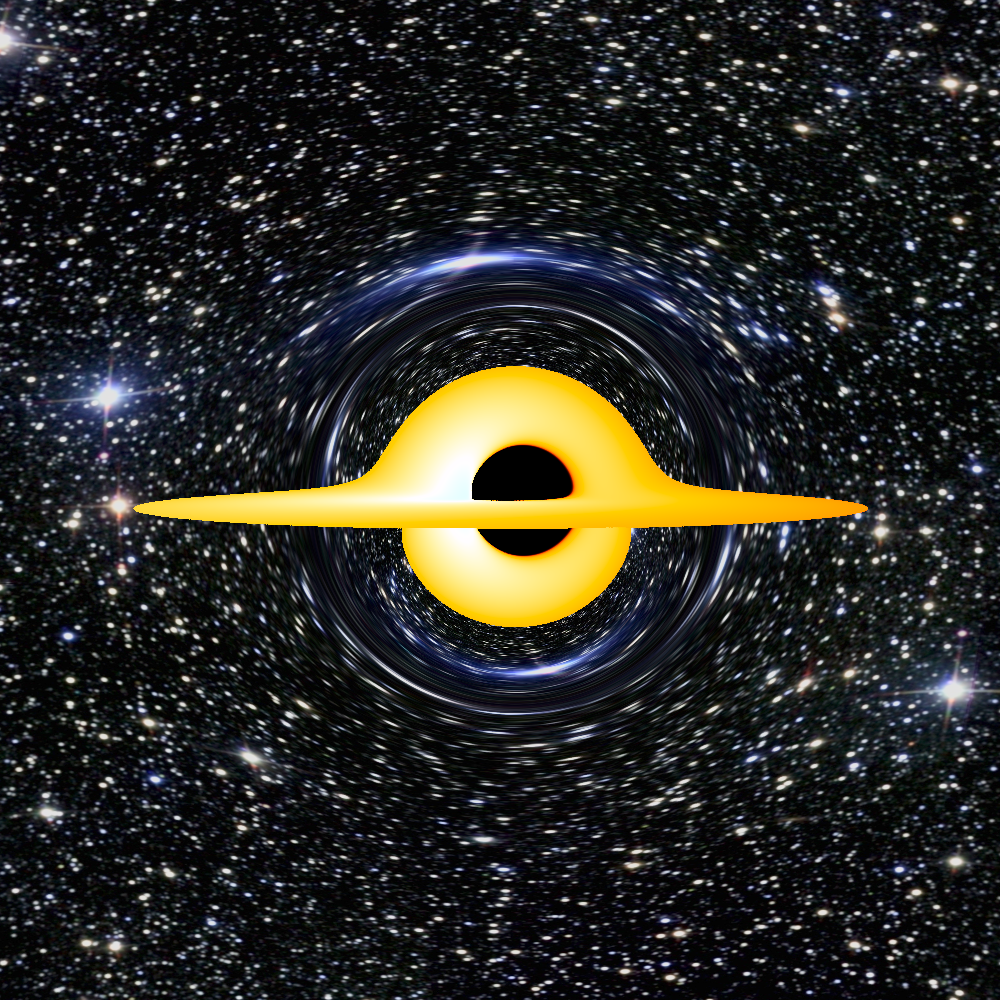
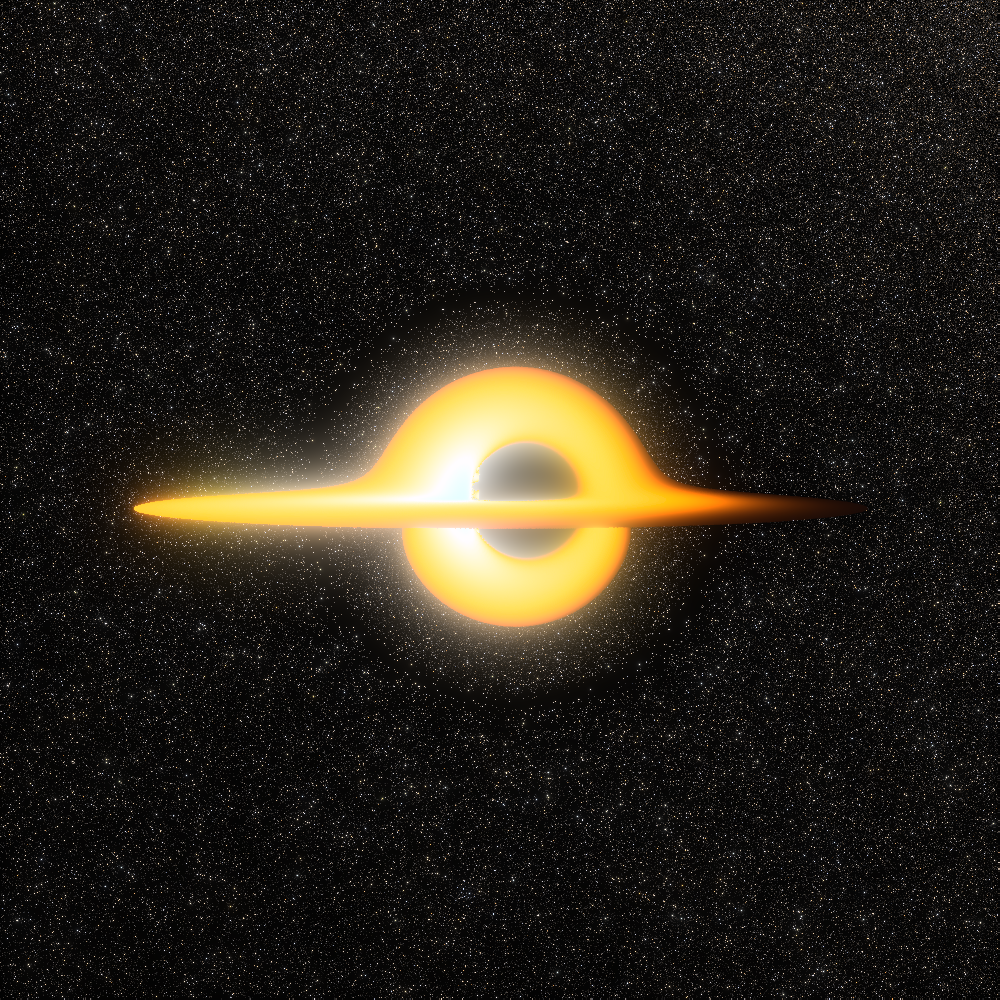
feat(gallery): re-render Kerr disc gallery over the real Gaia star field
Re-render the blackbody, volumetric, and temperature-series frames in
images/kerr.md over the real Gaia DR3 point-star catalogue (mag <= 12,
lensed and redshifted with the rays) instead of the earlier image-texture
backgrounds (M25, NGC 6355), and grade each linear HDR through
scripts/grade.py (white-point + multi-scale bloom + ACES/Reinhard).

- Blackbody discs (gold far/near, red far/near) and the volumetric-stars
  frame now show discrete catalogue stars behind the disc.
- Adds a second grade of the extremal red close-up
  (kerr_blackbody_disk_a_0_5__2_lifted.png): a gentler Reinhard toe that
  keeps the cool outer disc visible alongside the high-contrast original.
- Temperature series (8000/12000/20000 K) re-rendered on the same star field.
- Documents the exact per-image scene + grade parameters in
  images/starfield-gallery-recipes.md and updates the kerr.md captions.

Claude-Session: https://claude.ai/code/session_01KovN3ofWRhnFdLQctCndkr

diff --git a/images/kerr.md b/images/kerr.md
@@ -2,15 +2,16 @@
 
 [← Back to the gallery index](images.md)
 
-Recipes: `images/create-gallery-images.sh` (checkerboard, blackbody, and
-volumetric renders, grid animation), `images/create-vantage-images.sh`
-(close vantages), `images/create-main-image.sh` with its
-`TEMPERATURE`/`EXPOSURE` overrides (temperature series), and
-`scripts/rendering/create_kerr_images.sh` (spin-sweep animations).
-Not scripted: the photon-ring pair (6x zoom section renders of the
-main-image scene, with the disc removed for the control) and the
-trajectory visualization (ray-export plus `scripts/plotting`; see
-`scripts/Readme.md`).
+Recipes: `images/create-gallery-images.sh` (checkerboard renders, grid
+animation), `images/create-vantage-images.sh` (close vantages), and
+`scripts/rendering/create_kerr_images.sh` (spin-sweep animations). The
+blackbody, volumetric, and temperature-series frames here were re-rendered
+over the real Gaia DR3 star catalogue and graded with `scripts/grade.py`;
+their exact per-image parameters are in
+`images/starfield-gallery-recipes.md`. Not scripted: the photon-ring pair
+(6x zoom section renders of the main-image scene, with the disc removed for
+the control) and the trajectory visualization (ray-export plus
+`scripts/plotting`; see `scripts/Readme.md`).
 
 ### Checkerboard Accretion Disk
 <div align="center">
@@ -32,7 +33,7 @@ and spin: the red pair sits at a = 0.4995, essentially extremal.
 
 <div align="center">
   <img src="kerr_blackbody_disk_1.png" alt="Kerr black hole with a hot blackbody accretion disk, distant view">
-  <p>Hot (8000 K) blackbody disc at a = 0.499, distant view (background image: <a href="https://commons.wikimedia.org/wiki/File:Messier_object_025.jpg">M25</a>)</p>
+  <p>Hot (8000 K) blackbody disc at a = 0.499, distant view, against the real Gaia DR3 star field (point sources to magnitude 12, redshifted and lensed with the rays)</p>
 </div>
 
 <div align="center">
@@ -47,7 +48,12 @@ and spin: the red pair sits at a = 0.4995, essentially extremal.
 
 <div align="center">
   <img src="kerr_blackbody_disk_a_0_5__2.png" alt="Essentially extremal Kerr black hole with a cool red blackbody disk, close-up on the shadow">
-  <p>The extremal-limit disc up close</p>
+  <p>The extremal-limit disc up close, high-contrast grade: the bright inner annulus dominates and the cool outer disc falls to near-black.</p>
+</div>
+
+<div align="center">
+  <img src="kerr_blackbody_disk_a_0_5__2_lifted.png" alt="The same close-up, lifted grade showing the full cool disc">
+  <p>The same frame, lifted grade (Reinhard toe): the fainter cool body of the disc stays visible end to end, at the cost of some inner-annulus contrast.</p>
 </div>
 
 ### Volumetric Rendering
@@ -58,29 +64,30 @@ and spin: the red pair sits at a = 0.4995, essentially extremal.
 
 <div align="center">
   <img src="render_kerr_stars_volumetric.png" alt="Kerr black hole visualization with background stars and volumetric disc">
-  <p>Kerr black hole visualization with background stars and volumetric disc (background image: <a href="https://commons.wikimedia.org/wiki/File:NGC6355_-_HST_-_Potw2301a.jpg">NGC 6355</a>)</p>
+  <p>Kerr black hole visualization with a volumetric disc against the real Gaia DR3 star field (point sources to magnitude 12, redshifted and lensed with the rays)</p>
 </div>
 
 ### Accretion-disc temperature series
 
-The main-image scene (see `images/create-main-image.sh`) rendered at three
-peak disc temperatures. Lensing and camera are identical; only the
-Novikov-Thorne calibration target changes, with `--exposure` compensating
-the (T/T_ref)^4 brightness difference so the frames stay comparable.
+The main-image scene rendered at three peak disc temperatures against the
+real Gaia DR3 star field. Lensing and camera are identical; only the
+Novikov-Thorne calibration target changes, with the per-frame flux scale and
+grade white point compensating the (T/T_ref)^4 brightness difference so the
+frames stay comparable.
 
 <div align="center">
   <img src="kerr_disc_temperature_8000k.png" alt="Kerr volumetric disc at 8000 K peak temperature: deep amber, sparse outskirts">
-  <p>8000 K (exposure 5): deep amber; the cool outskirts thin toward transparency, stars showing through.</p>
+  <p>8000 K: deep amber; the cool outskirts thin toward transparency, stars showing through.</p>
 </div>
 
 <div align="center">
   <img src="kerr_disc_temperature_12000k.png" alt="Kerr volumetric disc at 12000 K peak temperature: pale gold, fully luminous">
-  <p>12000 K (exposure 1): the previous main-image temperature; pale gold, fully luminous end to end.</p>
+  <p>12000 K: the previous main-image temperature; pale gold, fully luminous end to end.</p>
 </div>
 
 <div align="center">
   <img src="kerr_disc_temperature_20000k.png" alt="Kerr volumetric disc at 20000 K peak temperature: cream white">
-  <p>20000 K (exposure 0.13): pale ivory with a blue-white core. At matched brightness the frame is only mildly hotter-looking than 12000 K, because the visible-band blackbody chromaticity converges toward blue-white above ~10000 K; most of what higher temperature buys here is radiance, not color.</p>
+  <p>20000 K: pale ivory with a blue-white core. At matched brightness the frame is only mildly hotter-looking than 12000 K, because the visible-band blackbody chromaticity converges toward blue-white above ~10000 K; most of what higher temperature buys here is radiance, not color.</p>
 </div>
 
 ### Photon-ring windings

diff --git a/images/starfield-gallery-recipes.md b/images/starfield-gallery-recipes.md
@@ -1,0 +1,54 @@
+# Starfield gallery recipes
+
+The blackbody, volumetric, and temperature-series frames in
+[`kerr.md`](kerr.md) were re-rendered over the **real Gaia DR3 star
+catalogue** (point sources to magnitude 12, `data/gaia_mag12.parquet`),
+replacing the earlier image-texture backgrounds (M25, NGC 6355). Each scene
+adds a `[star_catalog]` block so the catalogue stars are lensed and
+redshifted along with the rays, then the linear HDR is graded to PNG with
+[`scripts/grade.py`](../scripts/grade.py).
+
+Two-step pipeline per frame:
+
+1. **Render** the scene to a linear `.hdr`. Common flags:
+   `--max-steps=1000000 --epsilon=1e-9 --theta=-3.14159 --psi=0 --phi=0`
+   (offloaded via `scripts/render-remote.sh` for the heavier frames).
+2. **Grade**: `uv run scripts/grade.py in.hdr out.png --white W --bloom B --tonemap {aces,reinhard}`.
+
+The grade white point sits at roughly the disc's 99th-percentile luminance
+divided by ~227, which keeps the disc contained (near white) while the much
+fainter catalogue stars land in visible mid-tones.
+
+## Blackbody discs (Novikov-Thorne, `scene-definitions/kerr-blackbody-disc.toml` + `[star_catalog]`)
+
+Scene: `flux_scale = 8000`, `celestial_temperature = 0` (catalogue stars only).
+
+| image | a | T (K) | inner_radius | camera | res | white | bloom | tonemap |
+|-------|---|-------|--------------|--------|-----|-------|-------|---------|
+| `kerr_blackbody_disk_1` (gold far) | 0.499 | 8000 | 0.63 | -22,0,0.9 | 1000² | 450 | 0.08 | aces |
+| `kerr_blackbody_disk_2` (gold near) | 0.499 | 8000 | 0.63 | -6,0,0.45 | 1000² | 50000 | 0.08 | aces |
+| `kerr_blackbody_disk_a_0_5__1` (red far) | 0.4995 | 4000 | 0.63 | -22,0,0.9 | 1000² | 0.2 | 0.08 | aces |
+| `kerr_blackbody_disk_a_0_5__2` (red near, high-contrast) | 0.4995 | 4000 | 0.603 | -6,0,0.45 | 1000² | 1000 | 0.08 | aces |
+| `kerr_blackbody_disk_a_0_5__2_lifted` (red near, lifted) | 0.4995 | 4000 | 0.603 | -6,0,0.45 | 1000² | 200 | 0.05 | reinhard |
+
+`inner_radius` tracks `1.02 * r_isco(a)`: 0.63 at a = 0.499, 0.603 at the
+essentially-extremal a = 0.4995. The lifted red-near frame is the same HDR as
+the high-contrast one, graded with a gentler Reinhard toe so the cool outer
+disc stays visible.
+
+## Temperature series (`brightness_reference_temperature = 7000`, inner 0.8, a = 0.499)
+
+Scene: the main-image volumetric disc + `[star_catalog]`, camera `-17,0,1.5`,
+1280x720. Only the peak temperature and the brightness normalisation change.
+
+| image | T (K) | flux_scale | white | bloom | tonemap |
+|-------|-------|-----------|-------|-------|---------|
+| `kerr_disc_temperature_8000k` | 8000 | 20 | 13 | 0.1 | aces |
+| `kerr_disc_temperature_12000k` | 12000 | 1000 | 735 | 0.1 | aces |
+| `kerr_disc_temperature_20000k` | 20000 | 70000 | 47000 | 0.1 | aces |
+
+## Volumetric (`scene-definitions/kerr-bl-volumetric-streaky.toml` + `[star_catalog]`)
+
+| image | camera | res | white | bloom | tonemap |
+|-------|--------|-----|-------|-------|---------|
+| `render_kerr_stars_volumetric` | -20,0,-0.6 | 1500² | 0.5 | 0.12 | aces |
